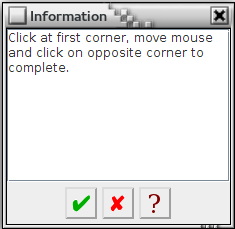
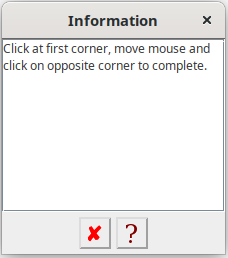
corrected buttons for Information Dialog

Changed region(s): [[0.0, 0.0, 1.0, 1.0]]

diff --git a/src/java/flowframtk/dialog/InfoDialog.java b/src/java/flowframtk/dialog/InfoDialog.java
@@ -41,8 +41,10 @@ public class InfoDialog extends JDialog
    public InfoDialog(FlowframTk application, String helpSectionId)
    {
       super(application,
-         application.getResources().getMessage("info.title"), true);
+         application.getResources().getMessage("info.title"), false);
       application_ = application;
+ 
+      helpId = helpSectionId;
 
       textArea = new JTextArea(10,20);
       textArea.setEditable(false);
@@ -51,29 +53,19 @@ public class InfoDialog extends JDialog
 
       getContentPane().add(new JScrollPane(textArea), "Center");
 
-      // OK/Cancel Button panel
+      // Button panel
 
       JPanel p = new JPanel();
       getContentPane().add(p, "South");
 
       JDRResources resources = getResources();
 
-      p.add(resources.createOkayButton(getRootPane(), this));
-      p.add(resources.createCancelButton(this));
+      p.add(resources.createCloseButton(getRootPane(), this));
 
-      try
-      {
-         helpAction = resources.getHelpLib().createHelpDialogAction(this,
-           helpSectionId);
+      helpButton = resources.createDialogButton("button.help", "help", this,
+       resources.getAccelerator("button.help"));
 
-         helpButton = resources.getButtonStyle().createButton(resources, helpAction);
-
-         p.add(helpButton);
-      }
-      catch (HelpSetNotInitialisedException e)
-      {
-         resources.internalError(null, e);
-      }
+      p.add(helpButton);
 
       pack();
       setLocationRelativeTo(application_);
@@ -85,64 +77,69 @@ public class InfoDialog extends JDialog
 
       if (action == null) return;
 
-      if (action.equals("okay"))
-      {
-         okay();
-      }
-      else if (action.equals("cancel"))
+      if (action.equals("close"))
       {
          setVisible(false);
       }
       else if (action.equals("help"))
       {
-         helpAction.doAction();
+         setVisible(false);
 
-         if (helpId != null)
+         try
          {
-            HelpDialog helpDialog = helpAction.getHelpDialog();
-
-            try
+            if (targetRef != null)
             {
-               helpDialog.setPage(helpId);
+               getResources().getHelpLib().openHelp(targetRef);
             }
-            catch (IOException e)
+            else if (navNode != null)
             {
-               getResources().error(this, e);
+               getResources().getHelpLib().openHelp(navNode);
             }
+            else if (helpId != null)
+            {
+               getResources().getHelpLib().openHelpForId(helpId);
+            }
+         }
+         catch (Exception e)
+         {
+            getResources().error(application_, e);
          }
       }
    }
 
    public void display(String text)
    {
-      display(text, null);
+      display(text, null, null, null);
    }
 
-   public void display(String text, String helpId)
+   public void display(String text, TargetRef targetRef,
+      NavigationNode navNode, String helpId)
    {
-      this.helpId = helpId;
-      textArea.setText(text);
-
-      if (helpButton != null)
-      {
-         if (helpId == null)
-         {
-            helpButton.setEnabled(false);
-            helpButton.setVisible(false);
-         }
-         else
-         {
-            helpButton.setEnabled(true);
-            helpButton.setVisible(true);
-         }
-      }
+      update(text, targetRef, navNode, helpId);
 
       setVisible(true);
    }
 
-   public void okay()
+   public void update(String text, TargetRef targetRef,
+      NavigationNode navNode, String helpId)
    {
-      setVisible(false);
+      this.helpId = helpId;
+      this.navNode = navNode;
+      this.targetRef = targetRef;
+
+      textArea.setText(text);
+
+      if (helpId == null && targetRef == null && navNode == null)
+      {
+         helpButton.setEnabled(false);
+         helpButton.setVisible(false);
+      }
+      else
+      {
+         helpButton.setEnabled(true);
+         helpButton.setVisible(true);
+      }
+
    }
 
    public JDRResources getResources()
@@ -156,5 +153,6 @@ public class InfoDialog extends JDialog
 
    private AbstractButton helpButton;
    private String helpId;
-   private HelpDialogAction helpAction;
+   private NavigationNode navNode = null;
+   private TargetRef targetRef = null;
 }

diff --git a/src/java/jdrresources/JDRResources.java b/src/java/jdrresources/JDRResources.java
@@ -1639,10 +1639,44 @@ public class JDRResources
       TJHAbstractAction helpAction = helpLib.createHelpDialogAction(
         dialog, id, icSet, (IconSet)null);
 
-      JButton button = buttonStyle.createButton(this, helpAction);
+      return createButton(buttonStyle, helpAction);
+   }
 
-      KeyStroke ks = (KeyStroke)helpAction.getValue(Action.ACCELERATOR_KEY);
-      String actionName = (String)helpAction.getValue(Action.ACTION_COMMAND_KEY);
+   public HelpDialogAction createHelpDialogAction(JDialog dialog, String id)
+   {
+      return createHelpDialogAction(dialogButtonStyle, dialog, id);
+   }
+
+   public HelpDialogAction createHelpDialogAction(int style, JDialog dialog, String id)
+   {
+      JDRButtonStyle buttonStyle;
+
+      if (style == DIALOG_BUTTON_AS_GENERAL)
+      {
+         buttonStyle = getButtonStyle();
+      }
+      else
+      {
+         buttonStyle = DIALOG_BUTTON_STYLES[style];
+      }
+
+      IconSet icSet = buttonStyle.getIconSet(this, 
+        helpLib.getIconPrefix("button.help", "help"));
+
+      return helpLib.createHelpDialogAction(dialog, id, icSet, (IconSet)null);
+   }
+
+   public JButton createButton(TJHAbstractAction action)
+   {
+      return createButton(getButtonStyle(), action);
+   }
+
+   public JButton createButton(JDRButtonStyle buttonStyle, TJHAbstractAction action)
+   {
+      JButton button = buttonStyle.createButton(this, action);
+
+      KeyStroke ks = (KeyStroke)action.getValue(Action.ACCELERATOR_KEY);
+      String actionName = (String)action.getValue(Action.ACTION_COMMAND_KEY);
 
       if (ks != null && actionName != null)
       {
@@ -2440,6 +2474,22 @@ public class JDRResources
    {
       return createDialogButton("button.close", "close", 
        listener, getAccelerator("button.close"), tooltipText);
+   }
+
+   public JDRButton createCloseButton(JRootPane rootPane, ActionListener listener)
+   {
+      return createCloseButton(rootPane, listener, getMessage("button.close"));
+   }
+
+   public JDRButton createCloseButton(JRootPane rootPane, ActionListener listener, 
+     String tooltipText)
+   {
+      JDRButton button = createDialogButton("button.close", "close", 
+       listener, getAccelerator("button.close"), tooltipText);
+
+      rootPane.setDefaultButton(button);
+
+      return button;
    }
 
    public JDRButton createDefaultButton(ActionListener listener)

diff --git a/src/java/flowframtk/StatusBar.java b/src/java/flowframtk/StatusBar.java
@@ -281,7 +281,7 @@ public class StatusBar extends JPanel
          {
             if (evt.getClickCount() > 1)
             {
-               infoDialog.display(infoField.getText(), helpId);
+               infoDialog.display(infoField.getText(), targetRef, navNode, helpId);
             }
          }
       });
@@ -453,6 +453,7 @@ public class StatusBar extends JPanel
       {
          helpButton.setVisible(true);
          helpButton.setEnabled(true);
+
          try
          {
             refreshHelpReference();
@@ -462,6 +463,8 @@ public class StatusBar extends JPanel
             getResources().error(application, e);
          }
       }
+
+      infoDialog.update(infoText, targetRef, navNode, helpId);
    }
 
    protected void refreshHelpReference() throws UnknownNodeException
